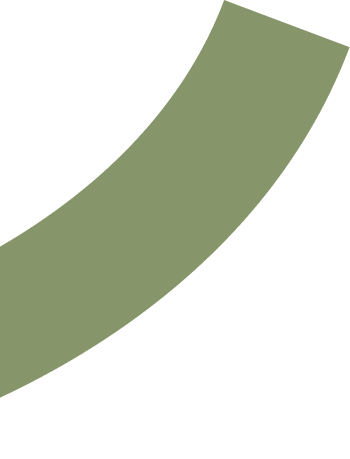
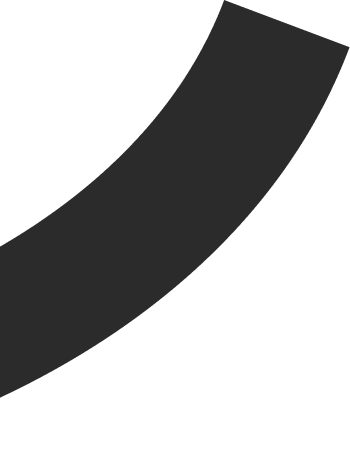
convert palet colors

diff --git a/app/globals.css b/app/globals.css
@@ -7,7 +7,8 @@
 
 @layer base {
   * {
-    transition: color 0.3s ease, background 0.3s ease, box-shadow 0.3s ease;
+    transition: color 0.3s ease, background 0.3s ease, box-shadow 0.3s ease,
+      opacity 0.3s ease, scale 0.3s ease;
     box-sizing: border-box;
     scroll-behavior: smooth;
   }
@@ -68,17 +69,17 @@
 }
 
 :root {
-  --primary-50: #f3f4f0;
-  --primary-100: #e7eae1;
-  --primary-200: #cfd5c3;
-  --primary-300: #b7bfa6;
-  --primary-400: #9faa88;
-  --primary-500: #87956a;
-  --primary-600: #6c7755;
-  --primary-700: #515940;
-  --primary-800: #363c2a;
-  --primary-900: #1b1e15;
-  --primary-950: #0d0f0b;
+  --primary-50: #f2f2f2;
+  --primary-100: #e6e6e6;
+  --primary-200: #cccccc;
+  --primary-300: #b3b3b3;
+  --primary-400: #999999;
+  --primary-500: #2b2b2b;
+  --primary-600: #666666;
+  --primary-700: #4d4d4d;
+  --primary-800: #333333;
+  --primary-900: #1a1a1a;
+  --primary-950: #0d0d0d;
 
   --secondary-50: #f6f3ee;
   --secondary-100: #eee7dd;
@@ -157,17 +158,17 @@
 }
 
 @theme {
-  --color-primary-50: #f3f4f0;
-  --color-primary-100: #e7eae1;
-  --color-primary-200: #cfd5c3;
-  --color-primary-300: #b7bfa6;
-  --color-primary-400: #9faa88;
-  --color-primary-500: #87956a;
-  --color-primary-600: #6c7755;
-  --color-primary-700: #515940;
-  --color-primary-800: #363c2a;
-  --color-primary-900: #1b1e15;
-  --color-primary-950: #0d0f0b;
+  --color-primary-50: #f2f2f2;
+  --color-primary-100: #e6e6e6;
+  --color-primary-200: #cccccc;
+  --color-primary-300: #b3b3b3;
+  --color-primary-400: #999999;
+  --color-primary-500: #2b2b2b;
+  --color-primary-600: #666666;
+  --color-primary-700: #4d4d4d;
+  --color-primary-800: #333333;
+  --color-primary-900: #1a1a1a;
+  --color-primary-950: #0d0d0d;
 
   --color-secondary-50: #f6f3ee;
   --color-secondary-100: #eee7dd;

diff --git a/components/global/Sidebar.tsx b/components/global/Sidebar.tsx
@@ -49,7 +49,11 @@ export default function Sidebar() {
                   } else if (label === "من نحن" && pathname !== "/") {
                     setTimeout(
                       () =>
-                        scrollTo({ left: 0, top: innerHeight, behavior: "smooth" }),
+                        scrollTo({
+                          left: 0,
+                          top: innerHeight,
+                          behavior: "smooth",
+                        }),
                       500
                     );
                   } else {
@@ -60,7 +64,9 @@ export default function Sidebar() {
                 key={label}
                 className={cn(
                   "cursor-pointer flex items-center p-2 rounded-xl text-secondary-500 hover:bg-secondary-500 hover:text-primary-500!",
-                  isActive && "bg-secondary-500 text-primary-500"
+                  isActive &&
+                    label !== "من نحن" &&
+                    "bg-secondary-500 text-primary-500"
                 )}
               >
                 <Icon className="size-9 sm:size-12 shrink-0" />

diff --git a/components/global/NavigationLinks.tsx b/components/global/NavigationLinks.tsx
@@ -12,14 +12,18 @@ export default function NavigationLinks() {
           (pathname.includes(route) && route !== "/") || pathname === route;
         return isActive ? (
           <button
-            className="cursor-pointer rounded-[30px] px-4 py-2 bg-primary-500"
+            className={cn(
+              "cursor-pointer rounded-[30px] px-4 py-2",
+              label !== "من نحن" && "bg-primary-500"
+            )}
             key={label}
             onClick={() => {
               if (label === "من نحن" && pathname === "/") {
                 scrollTo({ left: 0, top: innerHeight, behavior: "smooth" });
               } else if (label === "من نحن" && pathname !== "/") {
                 setTimeout(
-                  () => scrollTo({ left: 0, top: innerHeight, behavior: "smooth" }),
+                  () =>
+                    scrollTo({ left: 0, top: innerHeight, behavior: "smooth" }),
                   500
                 );
               } else {

diff --git a/app/(root)/services/page.tsx b/app/(root)/services/page.tsx
@@ -26,7 +26,7 @@ export default function ServicesPage() {
 
 const AboutHeroSec = () => {
   return (
-    <div className="bg-[url(/assets/services/hero-sec/bg.png)] min-h-dvh bg-no-repeat bg-cover bg-bottom">
+    <div className="bg-[url(/assets/services/hero-sec/bg2.png)] min-h-dvh bg-no-repeat bg-cover bg-bottom">
       <div className="main-container">
         <div className="pt-32 md:pt-48 pb-18 md:pb-24 space-y-9 md:space-y-14">
           {/*//! Text  */}
@@ -99,7 +99,7 @@ const ServicesSec = () => {
                 raysOrigin={i % 2 === 0 ? "top-right" : "top-left"}
               />
               <img src={icon} alt={`${title}-image`} />
-              <h3 className="subtitle font-[700]">{title}</h3>
+              <h3 className="subtitle text-white font-[700]">{title}</h3>
               <p className="text-[14px] sm:text-[16px] text-[#F6F6F6] font-[300] line-clamp-5">
                 {des}
               </p>

diff --git a/app/services/[id]/components/service-header.tsx b/app/services/[id]/components/service-header.tsx
@@ -4,6 +4,7 @@ import { cn } from "@/lib/utils";
 import Image from "next/image";
 import Link from "next/link";
 import { useEffect, useState } from "react";
+import { TbArrowBackUp } from "react-icons/tb";
 
 export default function ServiceHeader() {
   const [isScroll, setIsScroll] = useState(false);
@@ -36,7 +37,7 @@ export default function ServiceHeader() {
           <h2 className="subtitle max-sm:hidden text-primary-500 font-[700] group-hover:opacity-60 focus-opacity-60">
             الرجوع إلى الخلف
           </h2>
-          <img className="size-5 group-hover:opacity-60 focus-opacity-60" src="/assets/service/header/arrow.svg" />
+          <TbArrowBackUp className="size-7 group-hover:opacity-60 focus-opacity-60" />
         </Link>
       </div>
     </div>

diff --git a/components/shared/LightRays.tsx b/components/shared/LightRays.tsx
@@ -29,7 +29,7 @@ interface LightRaysProps {
   className?: string;
 }
 
-const DEFAULT_COLOR = '#859368';
+const DEFAULT_COLOR = 'white';
 
 const hexToRgb = (hex: string): [number, number, number] => {
   const m = /^#?([a-f\d]{2})([a-f\d]{2})([a-f\d]{2})$/i.exec(hex);
@@ -92,7 +92,7 @@ const LightRays: React.FC<LightRaysProps> = ({
   pulsating = false,
   fadeDistance = 1.0,
   saturation = 1.0,
-  followMouse = true,
+  followMouse = false,
   mouseInfluence = 0.1,
   noiseAmount = 0.0,
   distortion = 0.0,

diff --git a/app/(root)/components/HeroSec.tsx b/app/(root)/components/HeroSec.tsx
@@ -6,7 +6,7 @@ import Link from "next/link";
 
 export default function HeroSec() {
   return (
-    <div className="relative bg-[url(/assets/home/hero-sec/bg.png)] bg-cover bg-bottom bg-no-repeat">
+    <div className="bg-overlay relative bg-[url(/assets/home/hero-sec/bg2.png)] bg-cover bg-bottom bg-no-repeat">
       <div className="main-container min-h-dvh flex">
         <div className="w-full flex justify-center items-center gap-10 sm:gap-15 max-lg:flex-col">
           {/*//! Text  */}

diff --git a/components/global/Header.tsx b/components/global/Header.tsx
@@ -45,7 +45,7 @@ export default function Header() {
           <FaWhatsapp
             className={cn(
               "size-8 transition-all group-hover:scale-130 group-focus:text-primary-50",
-              isScroll ? "text-primary-600" : "text-primary-50"
+              isScroll ? "text-primary-300" : "text-primary-50"
             )}
           />
         </button>

diff --git a/app/(root)/page.tsx b/app/(root)/page.tsx
@@ -7,7 +7,7 @@ export default function HomePage() {
     <section className="relative z-2">
       {/*//! bg victor */}
       <Image 
-        src="/assets/home/bg-victor.png"
+        src="/assets/home/bg-victor2.png"
         alt="home-bg-victor"
         fill
         className="-z-1 translate-y-170 max-md:-rotate-180 max-lg:scale-150 md:-translate-y-10"

diff --git a/app/(root)/components/AboutSec.tsx b/app/(root)/components/AboutSec.tsx
@@ -37,7 +37,7 @@ export default function AboutSec() {
           </div>
           <div className="">
             <Image
-              src="/assets/home/about-sec/side.png"
+              src="/assets/home/about-sec/side2.png"
               alt="al-yasmeen"
               width={998.3995361328125}
               height={616.1465454101562}
